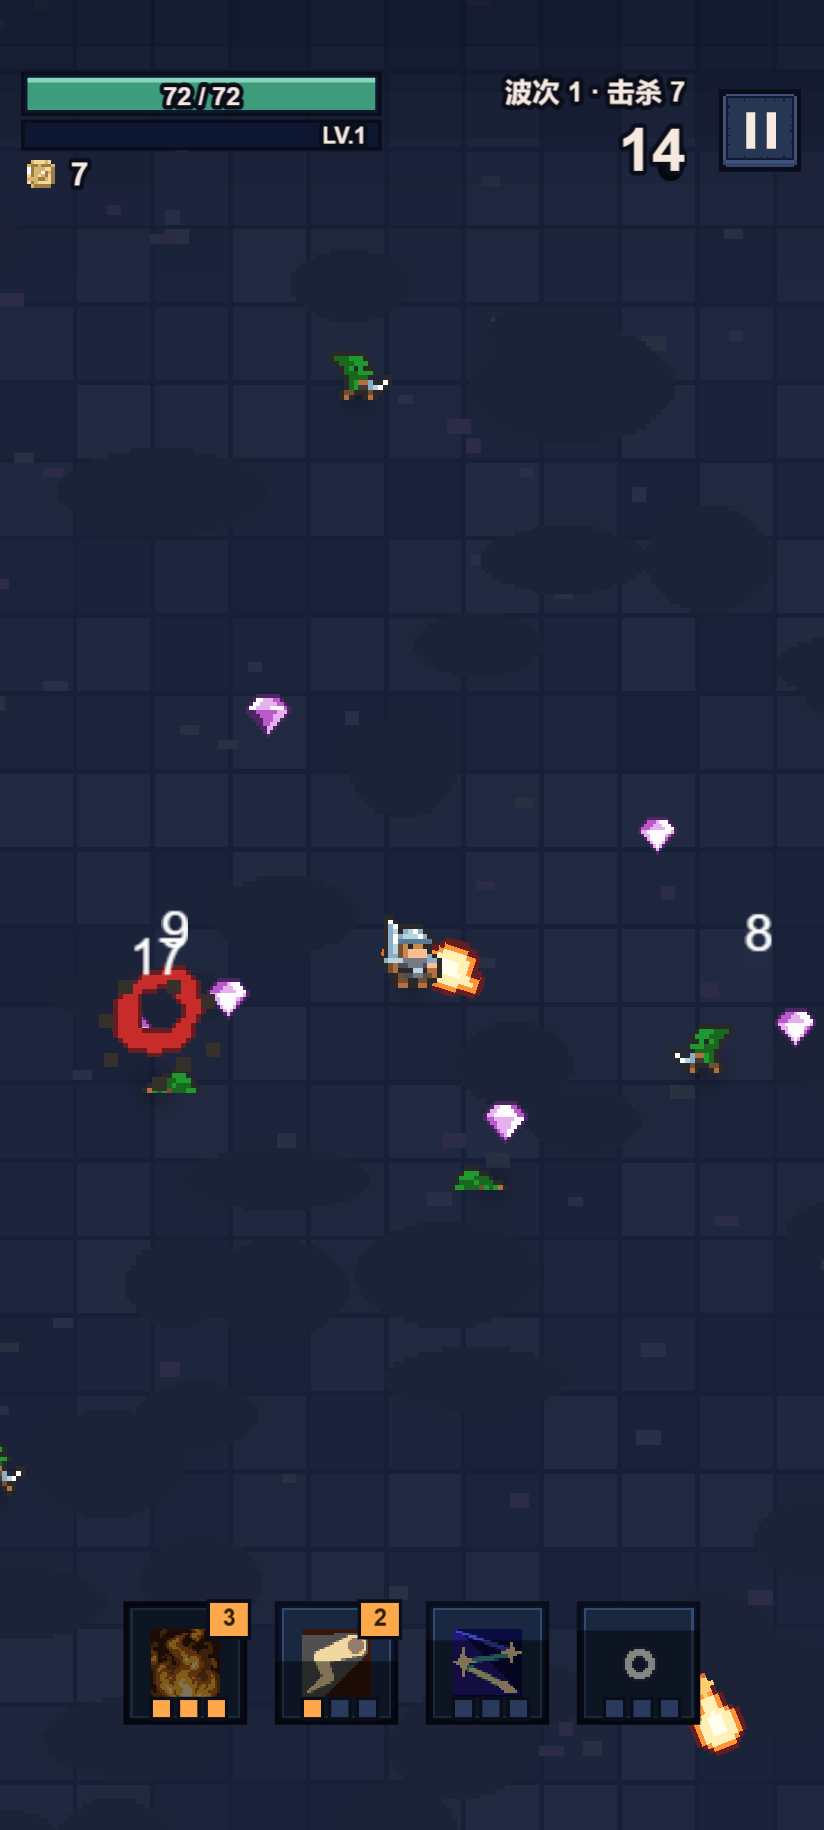
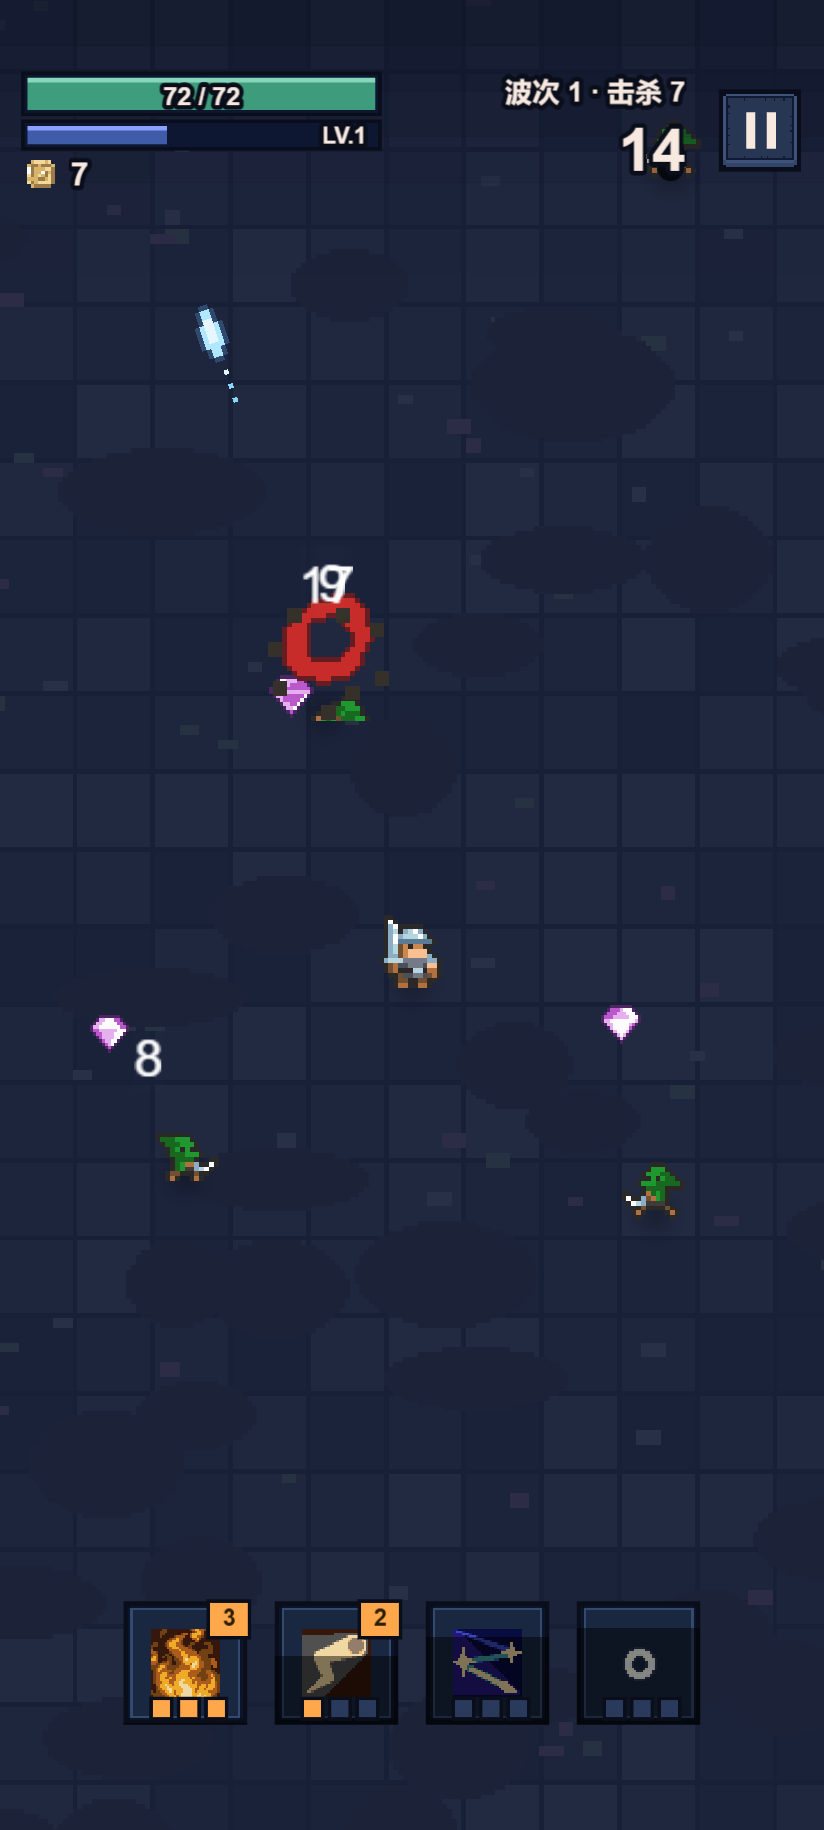
HUD 残血光晕：四边等宽 2.5px（用户反馈上左右比下宽）
- 之前是非对称外扩（上 11px / 侧 9.5px / 下 2.5px），看起来"没对齐"
- 改为四边统一 2.5px：外圈 2.5px alpha 38 + 内圈 1.1px alpha 92
- 2.5px 是上限：血条底边到经验条顶边只有 3px，再宽就会压经验条
- 三档视口截图重拍

diff --git a/cocos/assets/scripts/ui/Hud.ts b/cocos/assets/scripts/ui/Hud.ts
@@ -211,20 +211,16 @@ export class Hud {
       this.hpText.color = warn ? C_HP_TEXT : COL.cream;
       this.hpWarn.clear();
       if (warn) {
-        // 血条外圈光晕：**窄一点、浓一点**（用户 2026-10-29 第二轮反馈：太淡且压到经验条）
-        //   · 横向最多外扩 ~9.5px、向上 ~11px
-        //   · 向下只扩 2.5px —— 经验条就在血条下方 3px 处，扩多了会盖住它
-        //   · 5 层，最内层 alpha 52 → 最外层 14（同一颜色叠加会更浓）
-        const W = 156, H = 18, LAYERS = 5;
-        for (let i = LAYERS; i >= 1; i--) {
-          const padX = 2 + i * 1.5;
-          const up = 2 + i * 1.8;
-          const down = 2.5;
-          const a = Math.round(14 + 38 * (1 - (i - 1) / LAYERS));
-          this.hpWarn.fillColor = new Color(214, 88, 106, a);
-          this.hpWarn.roundRect(-W / 2 - padX, -H / 2 - down, W + padX * 2, H + up + down, 6);
-          this.hpWarn.fill();
-        }
+        // 血条外圈光晕：**四边等宽**（用户 2026-10-29 第三轮反馈：上左右比下宽，看着不对齐）
+        //   · 宽度统一 2.5px —— 上限由经验条决定：血条底边到经验条顶边只有 3px
+        //   · 两层：外圈 2.5px（淡）+ 内圈 1.1px（浓），叠出"边缘实、往外化开"的效果
+        const W = 156, H = 18, GLOW = 2.5;
+        this.hpWarn.fillColor = new Color(214, 88, 106, 38);
+        this.hpWarn.roundRect(-W / 2 - GLOW, -H / 2 - GLOW, W + GLOW * 2, H + GLOW * 2, 7);
+        this.hpWarn.fill();
+        this.hpWarn.fillColor = new Color(224, 100, 116, 92);
+        this.hpWarn.roundRect(-W / 2 - 1.1, -H / 2 - 1.1, W + 2.2, H + 2.2, 5);
+        this.hpWarn.fill();
       }
     }
 

diff --git a/docs/ui-redesign/ui_visual_m2.md b/docs/ui-redesign/ui_visual_m2.md
@@ -62,7 +62,10 @@
   - 宽度：横向最多外扩 **9.5px**（原 17.4）、向上 11px、**向下只扩 2.5px**（经验条就在血条下方 3px）；
   - 浓度：5 层、最内层 alpha **52**（原 24）、色值 `rgb(214,88,106)`；
   - 结果：血条周围一圈更实的红边光晕，经验条区域完全干净（截图已重拍）。
-- 可调参数集中在 `Hud.sync()` 的 `padX / up / down / alpha / color`；截图见 `m2/360x640-hud-lowhp-boss.png`。
+- **第三轮反馈（同一天）**："上左右比下宽，不对齐" → 改为**四边等宽 2.5px**（上限由经验条决定：
+  血条底边到经验条顶边只有 3px）。实现为两层同心圆角矩形（外 2.5px / alpha 38，内 1.1px / alpha 92），
+  均匀贴合血条四周，不再压经验条。
+- 可调参数集中在 `Hud.sync()` 的 `GLOW / alpha / color`；截图见 `m2/360x640-hud-lowhp-boss.png`。
 
 ## 4. 未验证 / 风险
 
